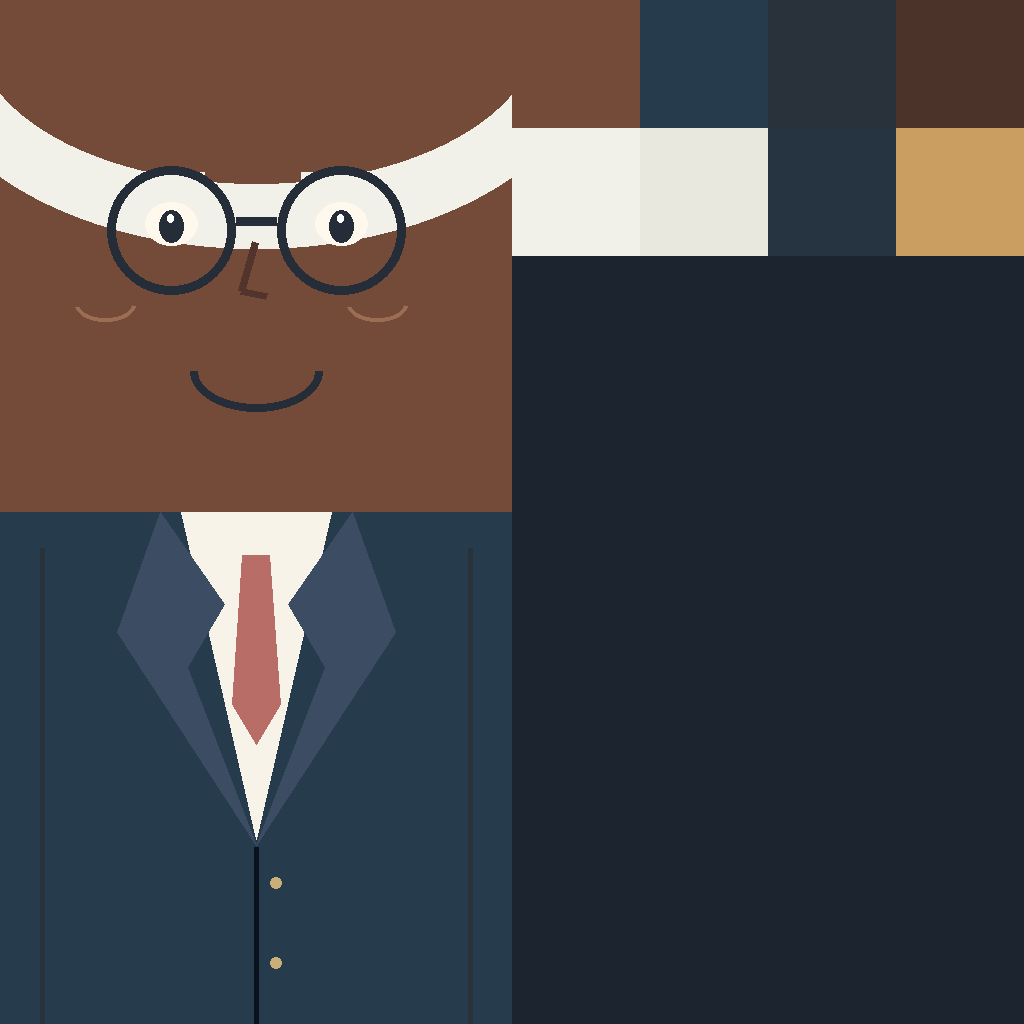
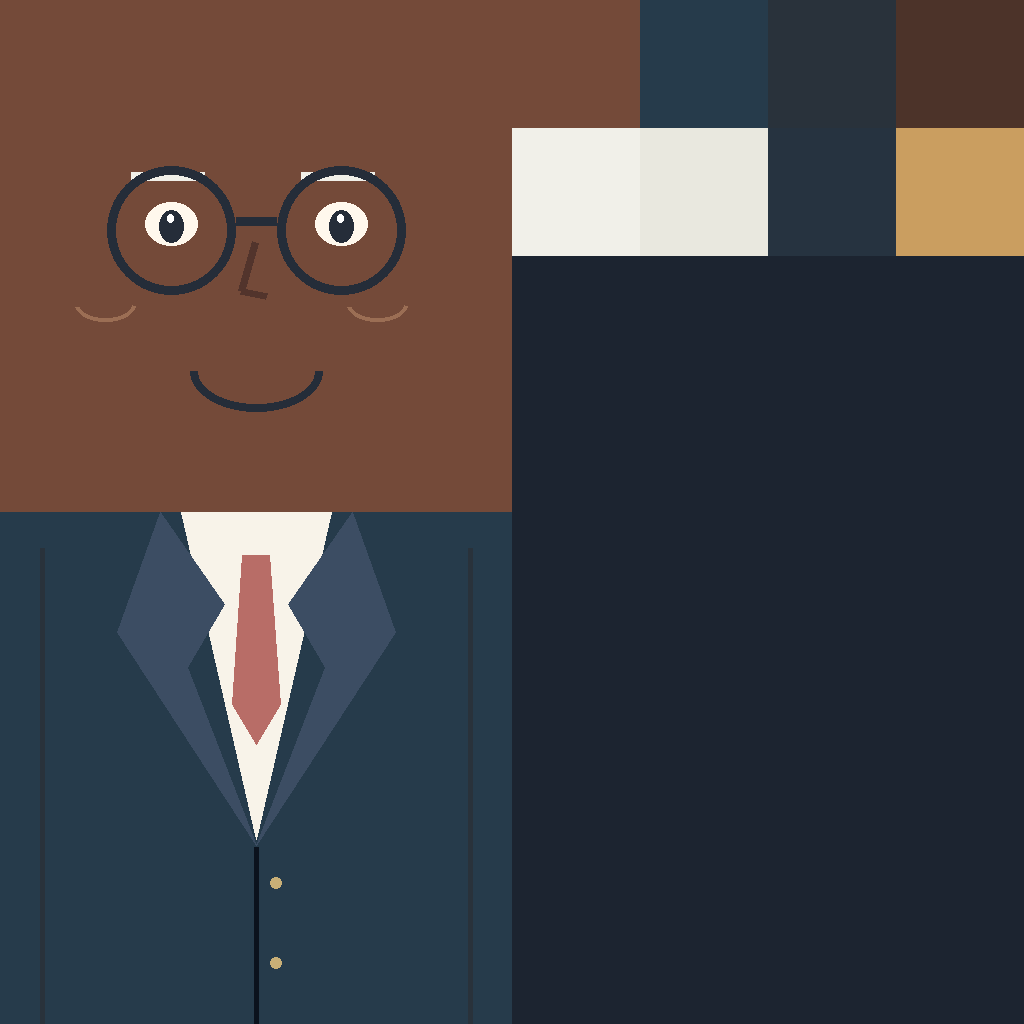
Remove white face stripe from elderly bot textures; package v15 face fix

Changed region(s): [[0.0, 0.0938, 0.5, 0.25]]

diff --git a/package_faces_v15.py b/package_faces_v15.py
@@ -1,0 +1,105 @@
+import hashlib,json,pathlib,struct,zipfile,subprocess,shutil
+R=pathlib.Path(__file__).resolve().parent
+OUT=R/'distribution/Caioba-completo-v15-rostos'
+OUT.mkdir(parents=True,exist_ok=True)
+H=lambda data: hashlib.sha256(data).hexdigest()
+names=['GameAssembly.dll']+['VolleyballFever_Data/'+n for n in ['resources.assets','level1','level2','level3','sharedassets1.assets','sharedassets3.assets','sharedassets0.assets','level0']]
+def original_path(name):
+    basename=pathlib.Path(name).name
+    return R/('backup' if basename in ['GameAssembly.dll','resources.assets'] else 'versions/v13-antes-personagens' if basename in ['sharedassets0.assets','level0'] else 'versions/v10-antes-mapas')/basename
+def delta(src,dst):
+    blocks=[(i,dst[i:i+4096]) for i in range(0,len(dst),4096) if src[i:i+4096]!=dst[i:i+4096]]
+    result=bytearray(src[:len(dst)]);result.extend(bytes(max(0,len(dst)-len(result))))
+    for offset,data in blocks:result[offset:offset+len(data)]=data
+    assert result==dst
+    return struct.pack('<qi',len(dst),len(blocks))+b''.join(struct.pack('<qi',i,len(data))+data for i,data in blocks)
+manifest={'version':'Caioba-completo-v15-rostos','steam_build':9216628,'files':[]}
+for i,name in enumerate(names):
+    src=original_path(name).read_bytes();dst=(R/'working'/name).read_bytes()
+    record={'path':name,'original_sha256':H(src),'modified_sha256':H(dst)}
+    for direction,a,b in [('forward',src,dst),('reverse',dst,src)]:
+        patch=delta(a,b);filename=f'{i}-{direction}.bin'
+        (OUT/filename).write_bytes(patch)
+        record[direction]={'name':filename,'sha256':H(patch)}
+    prior=(R/'versions/v15-antes-rostos'/pathlib.Path(name).name).read_bytes()
+    if H(prior) not in [H(src),H(dst)]:
+        record['previous_sha256']=H(prior)
+        for key,direction,a,b in [('upgrade','forward',prior,dst),('previous_reverse','reverse',prior,src)]:
+            filename=f'{20+i}-{direction}.bin';data=delta(a,b);(OUT/filename).write_bytes(data);record[key]={'name':filename,'sha256':H(data)}
+    manifest['files'].append(record)
+(OUT/'patch.json').write_text(json.dumps(manifest,indent=2),encoding='utf-8')
+(OUT/'Aplicar-mod.ps1').write_text((R/'Apply-Complete-Mod.ps1').read_text(encoding='utf-8'),encoding='utf-8-sig')
+for name,flag in [('Instalar.cmd',''),('Restaurar.cmd',' -Restore')]:
+    (OUT/name).write_text('@echo off\npowershell.exe -NoProfile -ExecutionPolicy Bypass -File "%~dp0Aplicar-mod.ps1"'+flag+'\npause\n',encoding='ascii')
+(OUT/'LEIA-ME.txt').write_text("""CAIOBA v15 - CORRECAO DOS ROSTOS - Volleyball Fever Steam build 9216628
+
+Extraia o ZIP inteiro. Feche o jogo e execute Instalar.cmd.
+Cada amigo precisa ter o jogo original e instalar este mesmo ZIP.
+Aceita a versao original ou o checkpoint v15. Abra pela Steam.
+Para jogar juntos, escolham mesma regiao, mesmo modo e mesma sala.
+Todos na sala precisam atualizar para v15.
+
+Removida a faixa branca pintada nos rostos dos bots 5 e 6.
+Cabelos brancos e demais caracteristicas preservados.
+Bots cartoon com cabecas maiores e corpos arredondados.
+Senhora asiatica com camisa e tenis vinho.
+Saltos dos bots +40 cm, levantamentos +40 cm e saque com arco mais alto.
+Bola do saque nasce sobre o bot sacador; ele espera embaixo dela.
+Comemoracao online: encoste as maos de dois jogadores no lobby ou
+entre pontos. As maos se aproximam brevemente e toca uma palma.
+Durante o rally a comemoracao fica desativada.
+A mensagem de ponto mostra o motivo em texto menor.
+Preserva fisica online, saque por trigger, dois GRABs para levantamento
+no segundo toque, modos 2v2/4v4 e mapas do checkpoint anterior.
+
+Testes automatizados e inicializacao do executavel aprovados.
+Partida VR e teste real entre dois PCs ainda pendentes. Confira no Quest
+as animacoes, o saque, a altura dos levantamentos e a comemoracao.
+
+Restaurar.cmd volta os nove arquivos ao original. Nao apaga saves.
+O instalador guarda uma copia dos arquivos anteriores na pasta do jogo.
+O ZIP v15 anterior foi preservado separadamente para voltar ao checkpoint.
+""",encoding='utf-8-sig')
+
+# Exercise the shipped PowerShell installer on a separate copy, never the live game.
+fixture=R/'tools/complete-installer-test';fixture.mkdir(parents=True,exist_ok=True)
+(fixture/'VolleyballFever.exe').write_bytes(b'fixture, not executable')
+for name in names:
+    dest=fixture/name;dest.parent.mkdir(parents=True,exist_ok=True);shutil.copyfile(original_path(name),dest)
+def run(restore=False,expected=0):
+    result=subprocess.run(['powershell.exe','-NoProfile','-ExecutionPolicy','Bypass','-File',str(OUT/'Aplicar-mod.ps1'),'-GameDirectory',str(fixture)]+(['-Restore'] if restore else []),capture_output=True,text=True)
+    assert result.returncode==expected,(result.stdout,result.stderr)
+    return result.stdout.strip()
+def check(key):
+    for f in manifest['files']:assert H((fixture/f['path']).read_bytes())==f[key],f['path']
+results=[]
+results.append(run());check('modified_sha256')
+results.append(run());check('modified_sha256')
+results.append(run(True));check('original_sha256')
+results.append(run(True));check('original_sha256')
+# Upgrade from complete v15 checkpoint.
+for name in names:shutil.copyfile(R/'versions/v15-antes-rostos'/pathlib.Path(name).name,fixture/name)
+results.append(run());check('modified_sha256')
+results.append(run(True));check('original_sha256')
+# Reject unknown files before modifying any other game file.
+bad=fixture/names[-1];bad.write_bytes(bad.read_bytes()+b'incompatible')
+before={n:H((fixture/n).read_bytes()) for n in names}
+results.append(run(expected=1))
+assert before=={n:H((fixture/n).read_bytes()) for n in names}
+shutil.copyfile(original_path(names[-1]),bad)
+# Reject damaged delta before modifying files, and restore package afterward.
+patch=OUT/manifest['files'][-1]['forward']['name'];saved=patch.read_bytes()
+try:
+    patch.write_bytes(saved+b'corrupted')
+    results.append(run(expected=1));check('original_sha256')
+finally:patch.write_bytes(saved)
+shutil.copyfile(R/'CHECKPOINT-V15-ROSTOS.md',OUT/'CHECKPOINT-V15-ROSTOS.md')
+archive=R/'distribution/Caioba-completo-v15-rostos.zip'
+with zipfile.ZipFile(archive,'w',zipfile.ZIP_DEFLATED) as z:
+    for file in sorted(OUT.iterdir()):z.write(file,'Caioba-completo-v15-rostos/'+file.name)
+    for file in sorted((R/'assets/caioba-v15').glob('*.png')):z.write(file,'Caioba-completo-v15-rostos/Previa-texturas/'+file.name)
+with zipfile.ZipFile(archive) as z:assert z.testzip() is None
+report={'zip':str(archive),'bytes':archive.stat().st_size,'sha256':H(archive.read_bytes()),'files':len(names),'checks':results}
+(R/'analysis/complete-package-v15-rostos-validation.json').write_text(json.dumps(report,indent=2),encoding='utf-8')
+print(json.dumps(report,indent=2))
+

diff --git a/create_caioba_characters_v15.py b/create_caioba_characters_v15.py
@@ -49,7 +49,7 @@ def face(n,emoji=False):
         d.rectangle((0,0,512,72),fill=hair)
         for x in range(16,512,48):d.ellipse((x-33,23,x+39,101+(x%3)*4),fill=hair)
     elif n==3:d.rectangle((0,0,512,65),fill=hair);d.rectangle((0,0,55,480),fill=hair);d.rectangle((457,0,512,480),fill=hair)
-    elif n in (4,5):d.arc((-90,-190,602,248),0,180,fill=hair,width=65)
+    elif n in (4,5):pass # White hair is geometry; no painted arc across the face.
     else:d.polygon([(0,0),(512,0),(512,76),(344,50),(103,116),(0,79)],fill=hair)
     for x in (171,341):
         if n==4:d.arc((x-32,192,x+32,239),180,355,fill=ink,width=7)
@@ -281,3 +281,4 @@ def build_assets():
     report={'bot_renderers_replaced':replaced,'bot_mesh_ids':meshes,'player_atlas_texture':texid,'models':[{'vertices':len(m.v),'triangles':len(m.tri)} for m in MODELS]}
     (OUT/'characters.json').write_text(json.dumps(report,indent=2));print(json.dumps(report,indent=2))
 if __name__=='__main__':build_assets()
+

diff --git a/CHECKPOINT-V15-ROSTOS.md b/CHECKPOINT-V15-ROSTOS.md
@@ -1,0 +1,10 @@
+# Correção visual dos rostos — v15
+
+Removido o arco branco pintado sobre o rosto dos personagens idosos (bots 5 e 6). Cabelos brancos em 3D, sobrancelhas, óculos, roupa vinho e demais aparências preservados.
+
+A correção usa os mesmos materiais em solo e online, 2v2 e 4v4. Não altera física nem protocolo online: continua compatível com salas v15. Cada jogador precisa instalar o pacote para ver os rostos corrigidos no próprio computador.
+
+Pacote: Caioba-completo-v15-rostos.zip. Instala sobre o jogo original compatível ou v15. Backup: versions/v15-antes-rostos. O ZIP v15 anterior permanece disponível.
+
+Validação: comparação dos pixels com a textura anterior, prévia das malhas e verificação do instalador. Não houve novo playtest VR para esta correção visual.
+
